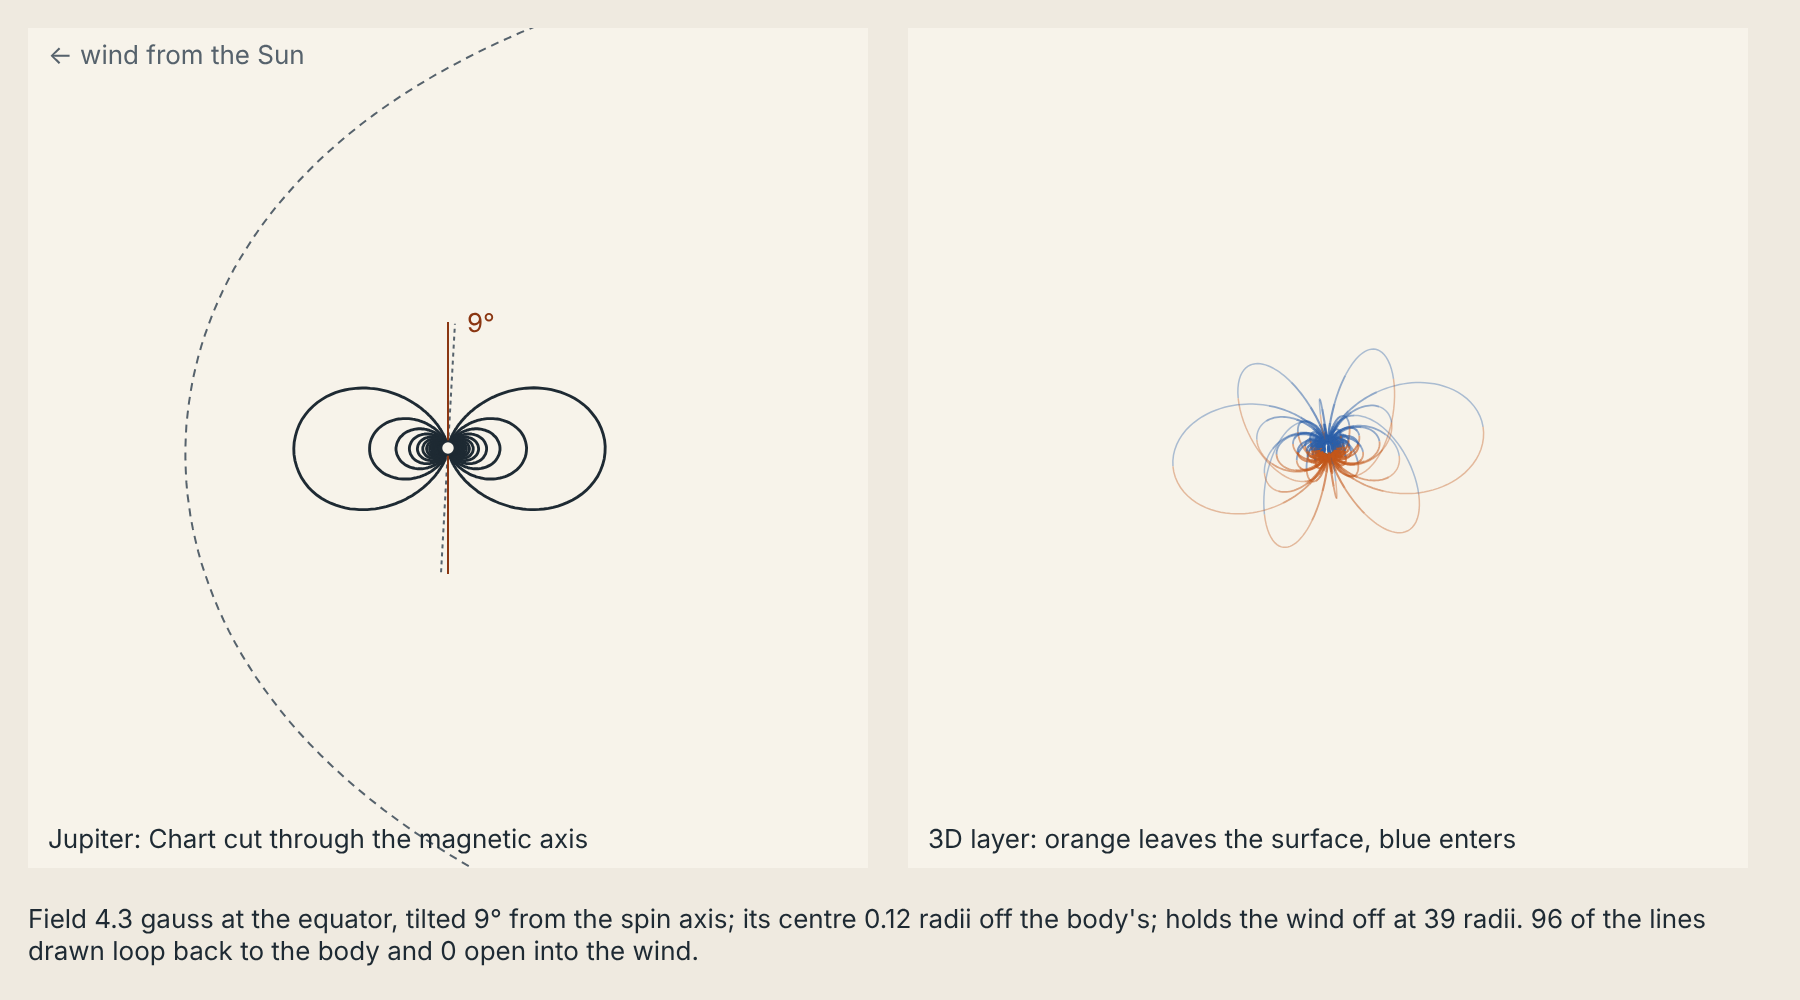
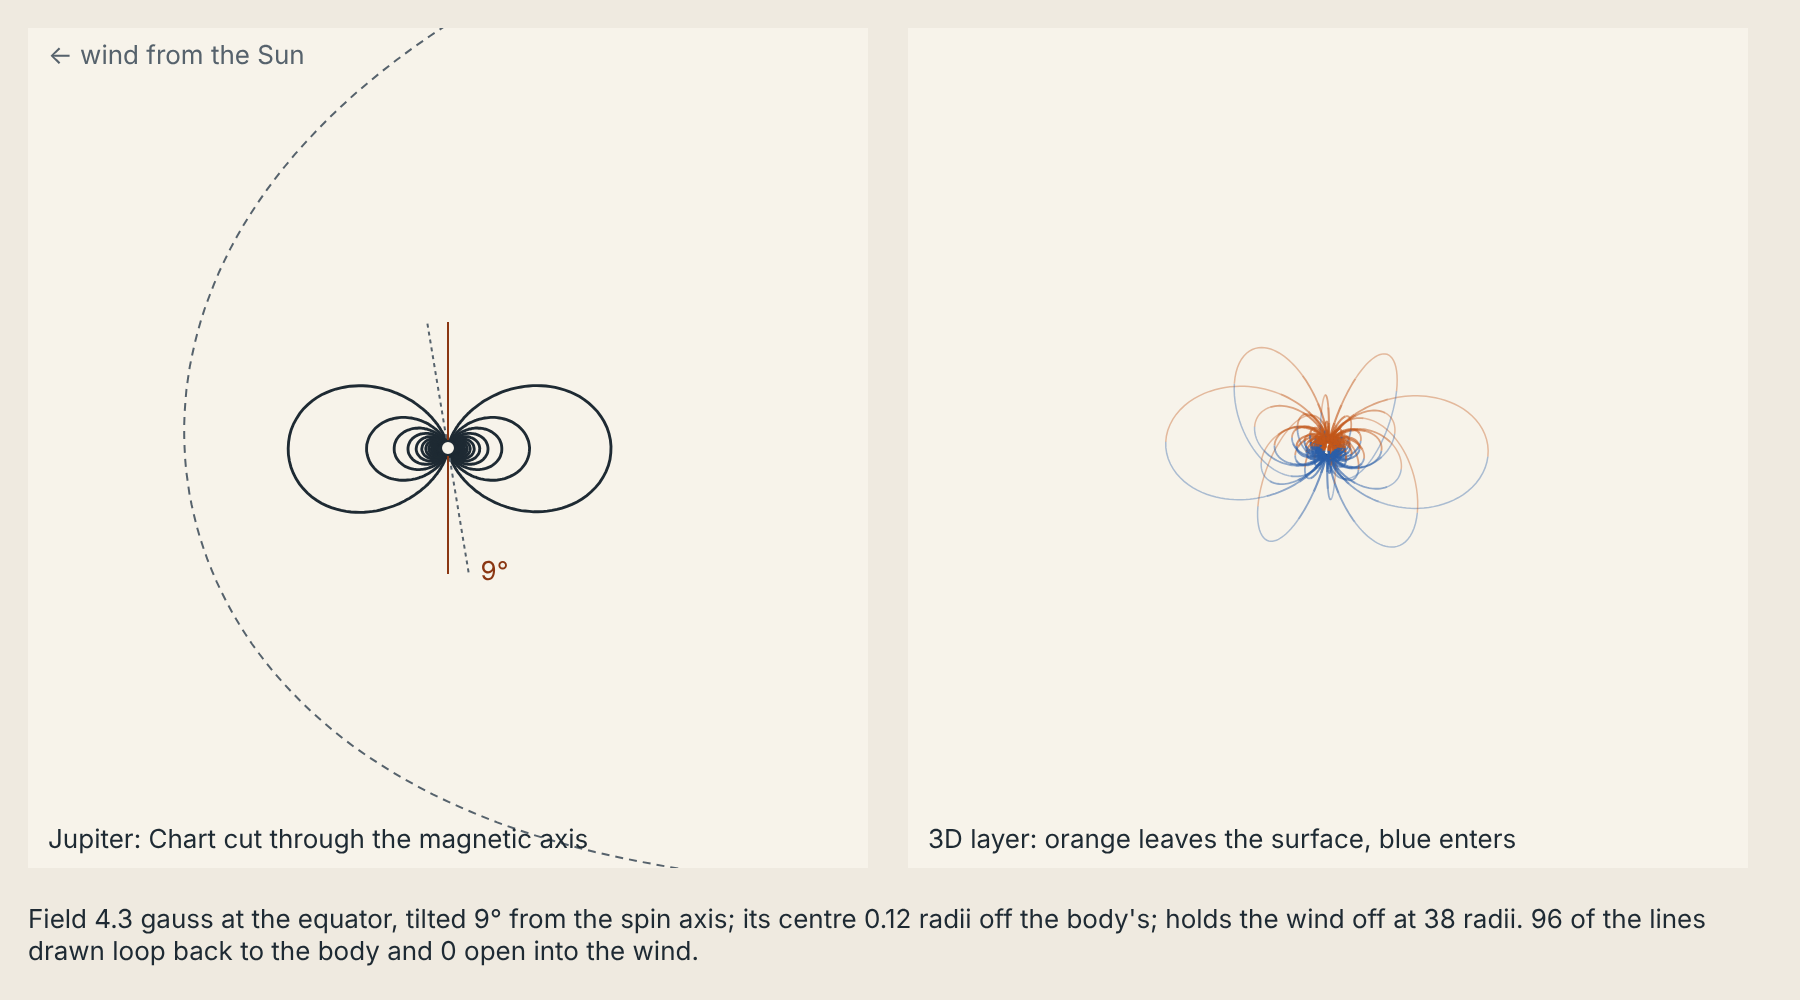
MF14a part 1b: the Mag layer reads the kernel's measured Solar System fields
session.readField and fieldFromRead turn read_field's solar-system fixture
(field block and Parker wind field) into the tracer's model and bubble;
pictures regenerated from it; a test over Mercury to Neptune.

Claude-Session: https://claude.ai/code/session_01E1vcBjUKvgqmtY6ur8taHk

diff --git a/packages/renderer/test/field.test.ts b/packages/renderer/test/field.test.ts
@@ -1,7 +1,7 @@
 // The Field layer's tracer (MF14a part 1): coefficients to field, field to lines, lines against the bubble.
 import { test } from "node:test";
 import assert from "node:assert/strict";
-import { bubbleOutline, chartCut, compressed, inBubble, cutPaths, drawField3D, project3D, dipole, dipoleAxis, fieldAt, insideBubble, lineBuffers, narrateField, schmidt, traceField, traceLine, type V3 } from "../src/field.ts";
+import { FIELD_LINES, bubbleOutline, chartCut, compressed, inBubble, cutPaths, drawField3D, project3D, dipole, dipoleAxis, fieldAt, insideBubble, lineBuffers, narrateField, schmidt, traceField, traceLine, type V3 } from "../src/field.ts";
 
 const near = (a: number, b: number, tol: number, what: string) => assert.ok(Math.abs(a - b) <= tol, `${what}: ${a} against ${b}`);
 
@@ -164,4 +164,37 @@ test("the views' fixture: a dipole Earth inside its bubble traces closed and ope
   const t = traceField(model, bubble);
   assert.ok(t.counts.closed > 50 && t.counts.open > 0, JSON.stringify(t.counts));
   assert.match(narrateField(model, bubble, t), /^Field 31 µT at the equator, tilted 9° from the spin axis; holds the wind off at 9\.3 radii\./);
+});
+
+test("part 1b: read_field's Solar System fixture becomes the layer's model and bubble", async () => {
+  const { readFileSync } = await import("node:fs");
+  const { Session } = await import("../../ui-contract/src/session.ts");
+  const { gmSeat } = await import("../../ui-contract/src/seat.ts");
+  const { nodeKernel } = await import("../../ui-contract/test/node-kernel.ts");
+  const { fieldFromRead, dipoleB0 } = await import("../src/field.ts");
+  const k = nodeKernel();
+  try {
+    const pack = (n: string) => JSON.parse(readFileSync(new URL(`../../../packs/${n}/pack.json`, import.meta.url), "utf8"));
+    const s = await Session.open(k.client, gmSeat(), { id: "mag", seed: "mag" }, [pack("base-physics"), pack("base-reference")]);
+    const r = await s.readField({ fixture: "solar-system" });
+    assert.ok(r.ok, JSON.stringify(r));
+    const bodies = r.bodies as never as Parameters<typeof fieldFromRead>[0][];
+    const earth = fieldFromRead(bodies.find((b) => b.name === "Earth")!)!;
+    // IGRF's g10 is about −29.4 µT; the fixture's dipole from the measured moment lands near it.
+    near(dipoleB0(earth.model) * 1e6, 30.6, 1.5, "Earth's B0, µT");
+    assert.ok(earth.bubble && earth.bubble.standoff_radii > 7 && earth.bubble.standoff_radii < 12);
+    // Parker's spiral at Earth: about 45°, so the radial and azimuthal parts are about equal.
+    const wf = earth.bubble.wind_field_t!;
+    near(Math.abs(wf[0]) / Math.abs(wf[1]), 1.1, 0.2, "spiral");
+    const t = traceField(earth.model, earth.bubble);
+    assert.ok(t.counts.closed > 50 && t.counts.open > 0, JSON.stringify(t.counts));
+    for (const name of ["Mercury", "Jupiter", "Saturn", "Uranus", "Neptune"]) {
+      const b = fieldFromRead(bodies.find((x) => x.name === name)!)!;
+      assert.ok(b && b.bubble, name);
+      const tr = traceField(b.model, b.bubble, FIELD_LINES.canvas!);
+      assert.ok(tr.counts.closed > 0, `${name}: ${JSON.stringify(tr.counts)}`);
+    }
+  } finally {
+    await k.close();
+  }
 });

diff --git a/packages/renderer/src/field.ts b/packages/renderer/src/field.ts
@@ -714,3 +714,48 @@ export const FIELD_LINES: Record<"gpu-high" | "gpu-basic" | "canvas" | "text", {
   canvas: { perHemisphere: 10, meridians: 4 },
   text: null,
 };
+
+/** The parts of a read_field body (fixture "solar-system", or MF2's facts later) the layer reads. */
+export interface FieldReadJson {
+  address: string;
+  name?: string;
+  obstacle: { kind: string; standoff_radii: number };
+  flaring?: number;
+  field?: { reference_radius_m: number; g10_t: number; g11_t: number; h11_t: number; offset_radii?: number; tilt_deg?: number; grade?: string; stand_ins?: string[] };
+  wind_field?: { radial_t: number; azimuthal_t: number; sector?: string };
+}
+
+/**
+ * A read_field body to the layer's model and bubble. The body frame has z along the spin axis and x toward the
+ * star (the wind blows along −x); the ecliptic is taken as the spin equator. The wind's field is Parker's spiral:
+ * radial along −x (away from the star) for an away sector, and azimuthal along the star's spin, which is the
+ * orbit's prograde sense, −y in this frame (z × −x).
+ * Null when the body has no field block (no facts yet) or its own field is not what holds the wind off.
+ */
+export function fieldFromRead(r: FieldReadJson): { model: FieldModel; bubble: Bubble | null; notes: string[] } | null {
+  const f = r.field;
+  if (!f) return null;
+  const g = [[], [f.g10_t, f.g11_t]];
+  const h = [[], [0, f.h11_t]];
+  const base: FieldModel = { radius_m: f.reference_radius_m, g, h };
+  const notes = [...(f.stand_ins ?? [])];
+  let model = base;
+  if (f.offset_radii && f.offset_radii > 0) {
+    // The offset's direction is not published yet: drawn along the magnetic axis, toward the pole the field leaves.
+    const ax = dipoleAxis(base);
+    model = { ...base, offset: [-ax[0] * f.offset_radii, -ax[1] * f.offset_radii, -ax[2] * f.offset_radii] };
+    notes.push("the centre's offset is drawn along the magnetic axis, toward the pole the field leaves; its real direction is not published yet");
+  }
+  const own = r.obstacle.kind === "field";
+  const w = r.wind_field;
+  const bubble: Bubble | null = own
+    ? {
+        standoff_radii: r.obstacle.standoff_radii,
+        flaring: r.flaring ?? 0.5,
+        sunward: [1, 0, 0],
+        ...(w ? { wind_field_t: [-w.radial_t, -w.azimuthal_t, 0] as V3 } : {}),
+      }
+    : null;
+  if (!own) notes.push(`its ${r.obstacle.kind}, not its field, holds the wind off, so the lines are drawn to their own reach`);
+  return { model, bubble, notes };
+}

diff --git a/packages/ui-contract/src/session.ts b/packages/ui-contract/src/session.ts
@@ -205,6 +205,8 @@ export interface ViewSession {
   skyGlow(ask: Omit<SkyAsk, "observer"> & { nside?: number }): Promise<{ ok: true; glow: Json } | { ok: false; code: string; message: string }>;
   weather(ask: WeatherAsk): Promise<{ ok: true; want: string; world: string; provenance: Json; data: Json } | { ok: false; code: string; message: string }>;
   readActivity(ask: { stars: Json[]; seed?: string; at_s?: number; window?: { from_s: number; to_s: number; min_energy_j?: number } }): Promise<{ ok: true; stars: Json[] } | { ok: false; code: string; message: string }>;
+  /** What stops the wind at each body, and its field (read only): `fixture: "solar-system"` or handed `bodies`. */
+  readField(ask: { fixture?: string; bodies?: Json[] }): Promise<{ ok: true; bodies: Json[] } | { ok: false; code: string; message: string }>;
   kernelVersion(): Promise<string>;
   /** Derived values of a flow (read only; no event). */
   derive(ref: DeriveRef): Promise<{ ok: true; values: Record<string, Derived> } | { ok: false; message: string }>;
@@ -672,6 +674,11 @@ export class Session implements ViewSession {
   async readActivity(ask: { stars: Json[]; seed?: string; at_s?: number; window?: { from_s: number; to_s: number; min_energy_j?: number } }): Promise<{ ok: true; stars: Json[] } | { ok: false; code: string; message: string }> {
     const r = await this.#call({ op: "read_activity", ...ask } as Json);
     return r.type === "activity_read" ? { ok: true, stars: (r as unknown as { stars: Json[] }).stars } : { ok: false, code: String(r.code ?? "unexpected"), message: String(r.message ?? JSON.stringify(r)) };
+  }
+
+  async readField(ask: { fixture?: string; bodies?: Json[] }): Promise<{ ok: true; bodies: Json[] } | { ok: false; code: string; message: string }> {
+    const r = await this.#call({ op: "read_field", ...ask } as Json);
+    return r.type === "field_read" ? { ok: true, bodies: (r as unknown as { bodies: Json[] }).bodies } : { ok: false, code: String(r.code ?? "unexpected"), message: String(r.message ?? JSON.stringify(r)) };
   }
 
   async windowView(ask: import("./window.ts").WindowAsk): Promise<{ ok: true; view: import("./window.ts").WindowView } | { ok: false; code: string; message: string }> {

diff --git a/packages/renderer/src/index.ts b/packages/renderer/src/index.ts
@@ -39,5 +39,5 @@ export { addLayers, CLOUD_G, cloudReflectance, HAZE_G, liveSystems, narrateWeath
 export type { WeatherCell, WeatherLayer, WeatherMap, WeatherSystem, WeatherTile } from "./weather.ts";
 export { ang2pixRing, drawSky, exposureFor, glowLevel, glowPixel, glowSample, narrateSky, pickStar, pix2angRing, pointSpread, projectSky, readSky, skyCamera, skyView, systemView, toGalactic, toSystem, SKY_POINTS_MAX, SKY_WHITE_MAG_ARCSEC2, starRgb, tempFromBV, unprojectSky } from "./sky.ts";
 export type { Sky, SkyCamera, SkyGlowBand, SkyStar, SkyView, SystemFrame } from "./sky.ts";
-export { bubbleOutline, chartCut, compressed, cutPaths, degreeOf, dipole, dipoleAxis, dipoleB0, drawField3D, FIELD_LINES, FIELD_REFS, fieldAt, inBubble, insideBubble, lineBuffers, narrateField, project3D, schmidt, seeds, traceField, traceLine } from "./field.ts";
-export type { Bubble, ChartCut, FieldCamera, FieldLine, FieldModel, FieldTrace, Pen, Run, TraceOptions } from "./field.ts";
+export { bubbleOutline, chartCut, compressed, cutPaths, degreeOf, dipole, dipoleAxis, dipoleB0, drawField3D, FIELD_LINES, FIELD_REFS, fieldAt, fieldFromRead, inBubble, insideBubble, lineBuffers, narrateField, project3D, schmidt, seeds, traceField, traceLine } from "./field.ts";
+export type { Bubble, ChartCut, FieldCamera, FieldLine, FieldModel, FieldReadJson, FieldTrace, Pen, Run, TraceOptions } from "./field.ts";

diff --git a/handover/START-HERE.md b/handover/START-HERE.md
@@ -180,7 +180,7 @@ Milestone M1 "Proven core" = packages K0 to K6 (build plan section 3/4).
 |---|---|---|
 | Physics | P1, P3, P4, F0 to F6 done; pipeline, F7, F9, S0 to S4, S6 and S7 done, served by the `survey_surface` op; T3 NAV done (`sse-nav`, `plan_route`); S5 done (`plan_descent`); F8 next (G6 is in), S8 on G7; next B1 one body (handover/design/SSE4-star-census.md), then weather W1 to W3 and W5, then S8 or S9 | `main` via PRs |
 | Kernel | K7 to K10, G0 to G6, C1 to C3, L0, L1a to L1d, L2 (with E3 competing O2 sinks, `packages/E3.md`), E0 chemistries as data and reaction energetics (`packages/E0.md`), J1 to J5, J7, T1, T2 (also through the API), the U3 gaps, the V10 grant gaps and the UI asks (`adopt`, look-ahead write-back, `resolved_system`; K6-additions.md; `orbits_at`, campaign clock and calendars, `packages/orbits-clock-calendar.md`) galactic nuclei (`packages/G-nuclei.md`) the `sift` op for the agents (`packages/sift-op.md`) and J6 part 1 (programs, `packages/J6.md`) done; next J6 part 2 (NAV travel, pirate and patrol), then G7; one campaign clock with the two look-ahead accept choices and `set_system_age` with a reconstructed origin (`packages/T2-clock.md`), leftover clouds in `resolved_system` (`packages/clouds-read.md`), `classify_preview` for drafted game tables (`packages/classify-preview.md`); the E1 gradient catalogue as an opt-in life model (`packages/E1.md`); star cells and stored promotions through the kernel, night sky Y7a (`packages/Y7a.md`); tag declarations with a load-time check, campaign tags and exclusive groups, TG1 (`packages/TG1.md`); the physics wall, TG2 (`packages/TG2.md`); authored tags overrule rule tags, TG3 (`packages/TG3.md`); seeded chance on rules, TG4 (`packages/TG4.md`); tags level with facts in data views, TG5 (`packages/TG5.md`); dressing rules (universe packs place templates on worlds that fit), TG12 (`packages/TG12.md`); metabolisms grown from open gradients as an opt-in history, E2 (`packages/E2.md`); the master data sheet's reader, load checks and `read_matter`, MP1 (`packages/MP1.md`); constants as data with one handle and the reach report, MP1c part 1 (`packages/MP1c-part1.md`); soil as state made by life with a derived weathering factor and soil carbon in the ledger, opt-in, E4 (`packages/E4.md`); functional traits under selection with strain, extinction and rescue, E5 cut to what E6 needs (`packages/E5.md`); stars that follow a changed constant by homology, stamped ESTIMATED, MP1c part 2 (`packages/MP1c-part2.md`); a region's cover and biome from its climate, with fire, E6 part 1 (`packages/E6.md`); the air's available Gibbs energy feeding box I, E8 (`packages/E8.md`); the fill-star count tree by brightness class, night sky Y1 (`packages/Y1.md`); many phases per substance with load checks and `phase_at`, MP17 (`packages/MP17.md`); paste support for the Build desk, one-event batches with withdraw and restore (`packages/paste-ops.md`); the Look up block `sse.reference.lookup`, the one door onto the sheet, with "used by" from the wiring, MP17a (`packages/MP17a.md`); the sky from here, star by star through dust down to a limit, with giants made realistic, night sky Y2 (`packages/Y2.md`); other galaxies in the sky from the web around us, lit by the fill's own stars, night sky Y4 part 1 (`packages/Y4.md`); massive stars capped by the Humphreys–Davidson limit and a 6.5 sky in about half the time (`packages/Y2-fix.md`); each system's frame in the galaxy on `resolved_system` and `window_view`, Sol's measured (`packages/frame.md`); our galaxy's satellites as its surviving subhaloes (Y4 part 2, `packages/Y4.md`); next Earth's two radii named apart (owning threads) and the lint (CI, needs Alex's yes), turning E2 and E4 on in the kernel's coupled runs (the gradient model wiring), E6 part 2 (zonal and regional runs from the shared climate, the biome tile hand-off, the red-dwarf ring, wiring E4 and E5 into the history), then E7, interleaved with night sky Y4 part 3, Y7, Y8, Y9 | `main` via PRs |
-| Renderer (R1 to R4, then exotic objects in bands) | R1, R2a (air from kernel facts, physical lighting, True colour), R3 (still tier, "Take photograph"), R4 part 1 (checked recipe edits, hand editor) and R5a (stars: photosphere, spots, X-ray corona, granules from O10 cells), R6 (time-lapse layers, `packages/R6-timelapse.md`) and R2b part 1 (today's clouds, haze and storms from the weather op, `packages/R2b-weather.md`), Y5 parts 1 and 2 (the stars beyond, and behind the Window's lights, `packages/Y5.md`) and MF14a part 1 (the Mag layer's shared tracer, Chart cut and 3D lines, `packages/MF14a.md`) done; air from the kernel's read_air_optics; next MF14a part 1b (read_field's Solar System fixture), R2b part 2 (cloud shell at height on the GPU tiers), MF14a part 2 (3D tubes and True band emissions), R5 light-lens views, R4 part 2 with Orac (A2) | `main` via PRs |
+| Renderer (R1 to R4, then exotic objects in bands) | R1, R2a (air from kernel facts, physical lighting, True colour), R3 (still tier, "Take photograph"), R4 part 1 (checked recipe edits, hand editor) and R5a (stars: photosphere, spots, X-ray corona, granules from O10 cells), R6 (time-lapse layers, `packages/R6-timelapse.md`) and R2b part 1 (today's clouds, haze and storms from the weather op, `packages/R2b-weather.md`), Y5 parts 1 and 2 (the stars beyond, and behind the Window's lights, `packages/Y5.md`) and MF14a part 1 (the Mag layer's shared tracer, Chart cut and 3D lines, `packages/MF14a.md`) done; air from the kernel's read_air_optics; R2b part 2 (cloud shell at height on the GPU tiers), MF14a part 2 (3D tubes and True band emissions), R5 light-lens views, R4 part 2 with Orac (A2) | `main` via PRs |
 | Chart room shell and player views | U0 to U3, V1, U5, V2, V12, V3, V11, V4, V5, planet chart, V10, V6 System 3D, U9 lenses, N1 sound, U4 (what-if and look-ahead), A1 part 1, O1 light switch (UI), V13 parts 1 and 2 (import and grow, add to the campaign, read back and age with write-back), V6 Cutaway and Body globe (Body screen), phone screen menu, V14 size comparison and chart measuring, U10 browser campaign save, U7 biosphere view part 1, U11 human-scale time parts 1 and 2, U12 tactility parts 1 and 2, U13 shell frame (top-level redesign step 1), U14 desks and U15 depth (step 2 parts 1 and 2) done; next the top-level redesign's steps 2 to 7 in order (copy and paste, start sheet, Explorers shelf, scale ladder, tours, Find, engine-only screens), the campaign's now through the intent log, V7, U7 part 2 (LifeFlow) | `main` via PRs |
 
 **Since 19 Nov (Alex): `main` is the default branch.** New work branches from `main` and arrives as a pull request

diff --git a/docs/fudges.md b/docs/fudges.md
@@ -531,7 +531,7 @@ The owner wants the physics in chain blocks (except big blocks) with a UI elemen
 | `sky.ts` SKY_WHITE_MAG_ARCSEC2 and exposureFor (Y5) | The sky is shown with a fixed display exposure: 18 V mag per square arcsecond is full white. Other bands shift by the whole sky's brightness in them; they are not an eye or detector model | A screen cannot show the eye's dark adaptation or a sensor's response; one stated exposure keeps the bands comparable | An eye model (scotopic response, Purkinje shift) for V, and each instrument's response and exposure time from O8 sensors for the rest (Y6) | To review with Y6 |
 | `sky.ts` pointSpread | Each star is a Gaussian of 0.8 px whose total light is its flux, scaled so the faintest chosen star just shows. Brighter stars look wider only because more of their spread clears one display level | The real point spread of an eye or telescope is far below a pixel at these fields | An instrument's own PSF and seeing from O8 and Y6 sensors, drawn at its true angular size when zoomed in | To review with Y6 |
 | `sky.ts` glowSample | The HEALPix glow is blended between pixel centres with a Gaussian of 0.7 pixel spacing, in linear light | The kernel's map is coarse (nside 16, about 3.7° pixels) for speed; nearest-pixel drawing shows the pixels' diamonds | A finer map (nside 64) cached per vantage, when sky_glow is fast enough | Stand-in |
-| `field.ts` compressed and inBubble (MF14a) | Inside the bubble the traced field is the body's own, plus one image of its dipole mirrored at the stand-off (Chapman and Ferraro 1931), plus the wind's field added uniformly (Dungey 1961, as Cowley 1973's vacuum superposition). No tail current sheet, no ring current, no plasma stretching; only the dipole part is mirrored; the mirror is a flat plane, so lines near the cusps and far down the night side can cross Shue's curved surface even with no wind field | The Mag layer must show squeezing and open polar caps from the kernel's own numbers without a magnetospheric field model in the browser | A cited empirical model sized by the wind (Tsyganenko-style tail and ring currents, or Alexeev's paraboloid model), scaled to each body's stand-off | Stand-in |
+| `field.ts` compressed and inBubble (MF14a) | Inside the bubble the traced field is the body's own, plus one image of its dipole mirrored at the stand-off (Chapman and Ferraro 1931), plus the wind's field added uniformly (Dungey 1961, as Cowley 1973's vacuum superposition). No tail current sheet, no ring current, no plasma stretching; only the dipole part is mirrored; the mirror is a flat plane, so lines near the cusps and far down the night side can cross Shue's curved surface even with no wind field. `fieldFromRead` draws a published offset along the magnetic axis (its direction is not published yet) and takes the ecliptic as the spin equator | The Mag layer must show squeezing and open polar caps from the kernel's own numbers without a magnetospheric field model in the browser | A cited empirical model sized by the wind (Tsyganenko-style tail and ring currents, or Alexeev's paraboloid model), scaled to each body's stand-off | Stand-in |
 | `field.ts` seeds and FIELD_LINES (MF14a) | Footpoints are spaced at equal steps of the dipole part's flux, so line spacing means strength for the dipole; a many-poled field is seeded the same way. Lower device tiers trace fewer lines | About 100 lines is what a desktop traces in under 10 ms; finer flux steps would be needed to show a small open cap | Seeding by the full field's flux through the surface (Br over the sphere), with the open cap seeded on its own | Stand-in |
 
 

diff --git a/handover/packages/MF14a.md b/handover/packages/MF14a.md
@@ -74,18 +74,26 @@ Measured in Chromium (Playwright). The phone figures use the Moto G4 profile wit
 
 A phone traces fewer lines (`FIELD_LINES`). The trace runs on a change, never per frame.
 
+## Part 1b: the kernel's measured Solar System fields
+
+- `session.readField({ fixture: "solar-system" })` (ui-contract) reads `read_field`'s fixture (light thread, PR 172).
+  It needs `base-reference` loaded. Each body comes back with `name`, `field` (reference radius, g10, g11, h11,
+  tilt, offset, grade and sources) and `wind_field` (Parker's spiral in the ecliptic, away sector).
+- `fieldFromRead(body)` turns one into `{ model, bubble, notes }`.
+  - In the body frame, z is the spin axis and x points to the star.
+  - The wind's field is radial along −x. Its azimuthal part follows the star's spin, which is the orbit's prograde
+    sense, −y here.
+  - The offset's direction is not published yet, so it is drawn along the magnetic axis and said so in `notes`.
+  - A body whose air or surface holds the wind off gets no bubble, and the lines are drawn to their own reach.
+- Check: Earth's B0 is 30.6 µT, within 1.5 µT. Its stand-off lies between 7 and 12 radii, and Parker's spiral is
+  near 45°. Earth traces closed and open lines. Mercury, Jupiter, Saturn, Uranus and Neptune all trace on the
+  canvas tier.
+
 ## Pictures (`MF14-screens/`)
 
 These are `mf14a-earth.png`, `mf14a-jupiter.png`, `mf14a-uranus.png` and `mf14a-neptune.png`. Each shows the Chart
-cut, the 3D layer and the words. They were made with a scratch script from these inputs:
-
-- the measured-fields fixture (moment, tilt and offset);
-- the kernel's stand-off from `read_light` (fixture solar-system);
-- Parker's spiral for the wind's field.
-
-The tilt direction and offset direction are drawn: the fixture does not hold them yet. Part 1b replaces all this
-with `read_field`'s own Solar System fixture, which the light thread is adding (reference radius, g10, g11 and h11,
-the tilt direction, the offset, and the wind). Then the pictures will come from a test.
+cut, the 3D layer and the words, all from `read_field`'s fixture through `fieldFromRead`. Jupiter's open cap is
+smaller than the first ring of seeds, so its words honestly say "0 open". The pole's longitude is 0 in the fixture.
 
 ## Fudge register
 
@@ -94,8 +102,7 @@ mirror, and seeding by dipole flux.
 
 ## Next
 
-- **Part 1b.** Read `read_field {fixture: "solar-system"}` into a FieldModel and Bubble (`fieldFromRead`), and
-  regenerate the pictures from a test. Add the Sun and a pulsar once stellar coefficients are published.
+- Add the Sun and a pulsar once stellar coefficients are published, and stippled belts from read_field's `belts`.
 - **Part 2.** The 3D style's tubes, belts and the bubble shell in the GPU pass, and True's band emissions: aurora
   glow on the night side, a giant's radio belts and X-ray loops. Then particles drifting along lines at a stated
   speed-up.
